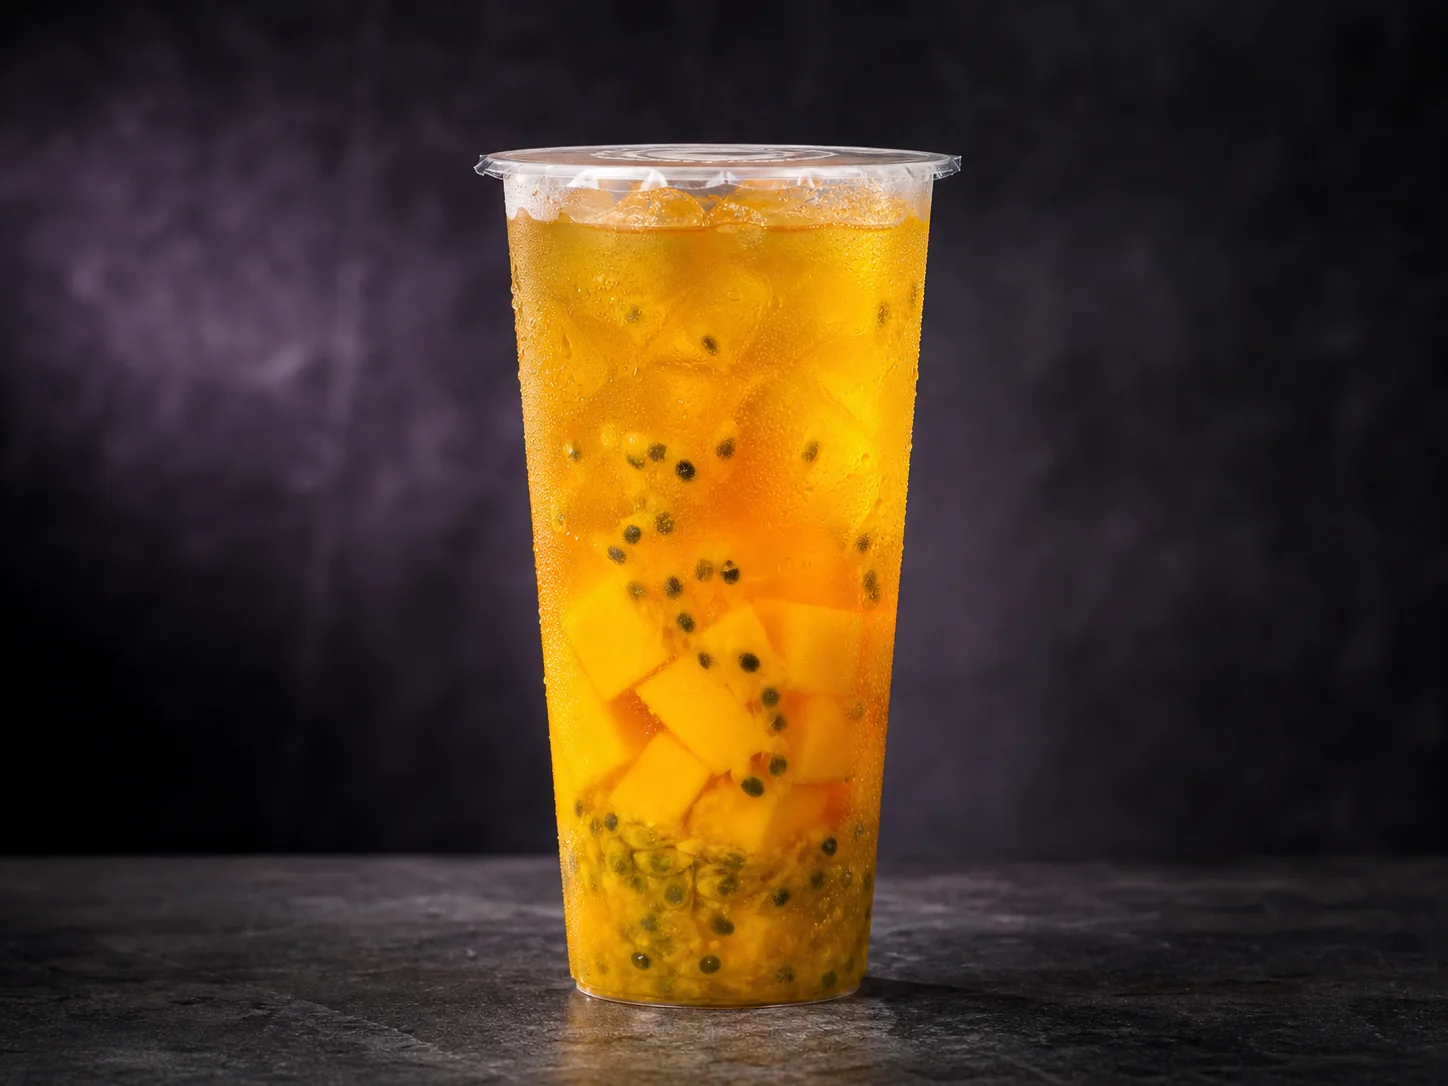
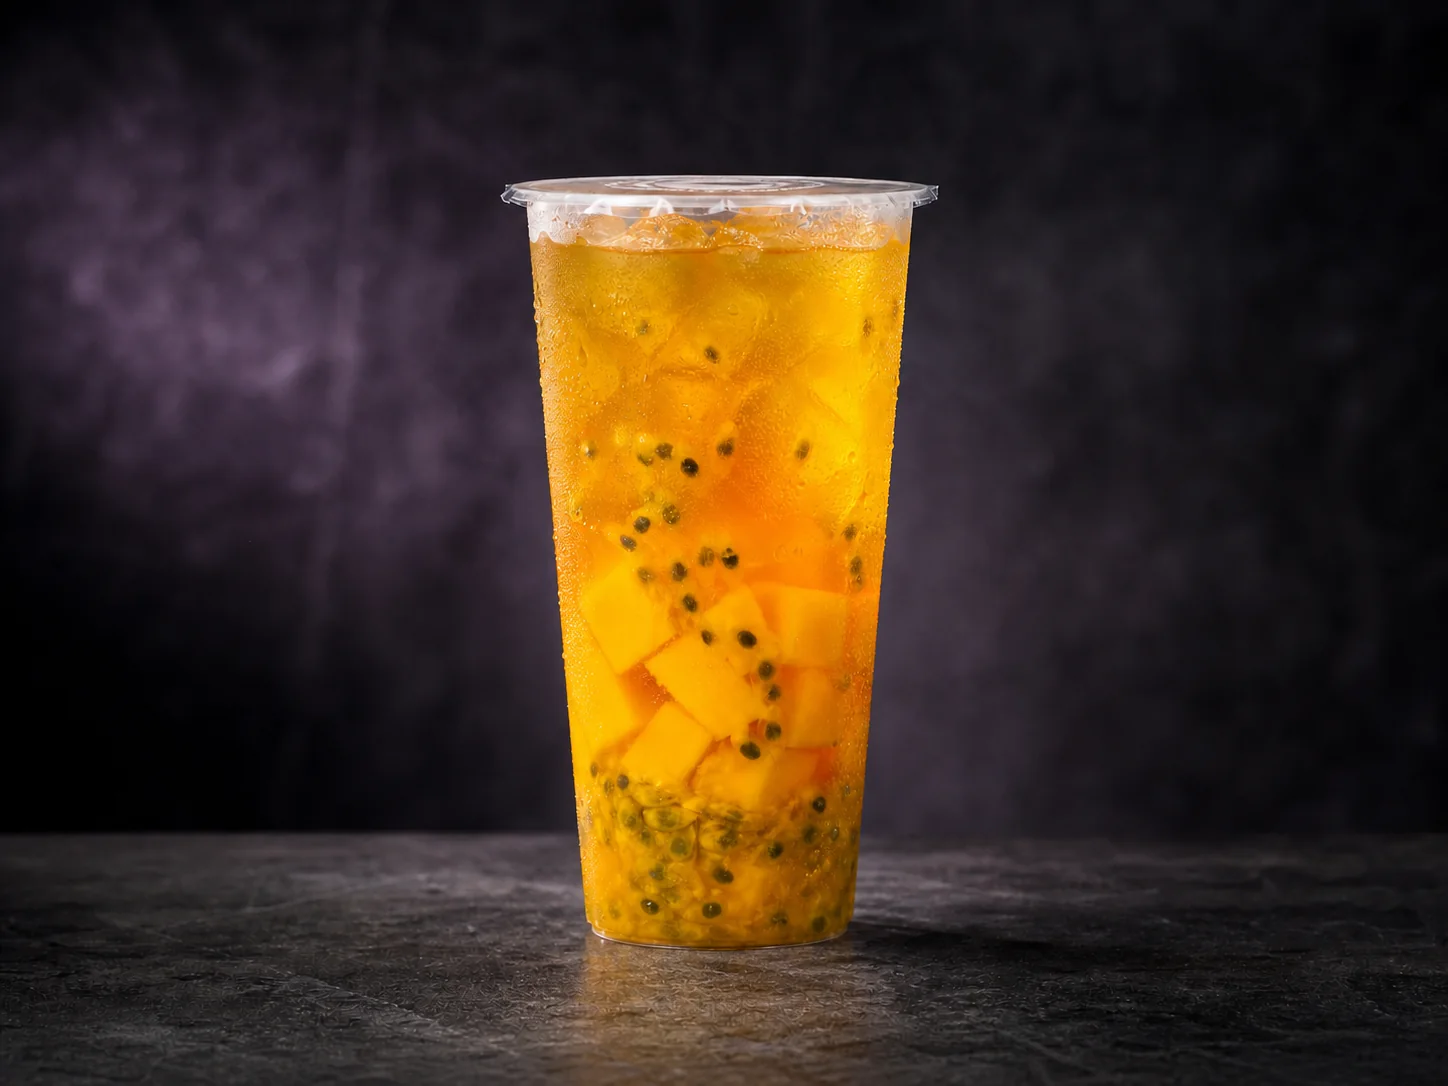
fix: refine product artwork presentation

diff --git a/frontend/src/features/catalog/DrinkPage.tsx b/frontend/src/features/catalog/DrinkPage.tsx
@@ -120,7 +120,7 @@ function DrinkCustomizer({ locationSlug, product }: { locationSlug?: string; pro
       <main className="mx-auto grid w-full max-w-6xl gap-8 px-4 py-8 sm:px-6 lg:grid-cols-[minmax(18rem,0.8fr)_minmax(32rem,1.2fr)] lg:items-start">
         <section className="grid gap-4 lg:sticky lg:top-24" aria-labelledby="drink-name">
           <Button asChild className="w-fit" variant="ghost"><Link to={locationSlug === undefined ? "/shop" : `/shop/${locationSlug}`}>← Back to menu</Link></Button>
-          <DrinkArtwork className="max-h-[28rem] w-full rounded-xl border object-cover object-[center_47%]" drink={product} priority />
+          <DrinkArtwork className="max-h-[28rem] w-full rounded-xl border object-cover object-center" drink={product} priority />
           <Badge variant="secondary">{product.category}</Badge>
           <h1 className="text-3xl" id="drink-name">{product.name}</h1>
           <p className="leading-6 text-muted-foreground">{product.description}</p>
@@ -139,7 +139,7 @@ function DrinkCustomizer({ locationSlug, product }: { locationSlug?: string; pro
                   ?? variant.price.amountMinor;
                 const delta = option.price.amountMinor - defaultPrice;
                 return (
-                  <Label className={cn("flex min-h-14 cursor-pointer items-center gap-3 rounded-lg border border-input bg-input/30 px-3 transition-colors hover:border-primary/70 hover:bg-interactive-hover has-data-[state=checked]:border-interactive-selected-border has-data-[state=checked]:bg-interactive-selected has-data-[state=checked]:text-interactive-selected-foreground has-data-[state=checked]:ring-1 has-data-[state=checked]:ring-primary/60", !option.available && "cursor-not-allowed opacity-50")} htmlFor={`variant-${option.id}`} key={option.id}>
+                  <Label className={cn("flex min-h-14 cursor-pointer items-center gap-3 rounded-lg border border-input bg-input/30 px-3 transition-colors has-data-[state=checked]:border-interactive-selected-border has-data-[state=checked]:bg-interactive-selected has-data-[state=checked]:text-interactive-selected-foreground has-data-[state=checked]:ring-1 has-data-[state=checked]:ring-primary/60", option.available ? "hover:border-primary/70 hover:bg-interactive-hover" : "cursor-not-allowed opacity-50")} htmlFor={`variant-${option.id}`} key={option.id}>
                     <RadioGroupItem
                       aria-label={`${option.name} ${priceDeltaLabel(delta, option.price.currency)}`}
                       disabled={!option.available}
@@ -193,7 +193,7 @@ function OptionGroup({
           const selected = selectedIds.includes(choice.id);
           const limitReached = multiple && !selected && selectedIds.length >= group.maximumSelections;
           return (
-            <Label className={cn("grid min-h-14 cursor-pointer grid-cols-[auto_1fr_auto] items-center gap-3 rounded-lg border border-input bg-input/30 px-3 transition-colors hover:border-primary/70 hover:bg-interactive-hover has-data-[state=checked]:border-interactive-selected-border has-data-[state=checked]:bg-interactive-selected has-data-[state=checked]:text-interactive-selected-foreground has-data-[state=checked]:ring-1 has-data-[state=checked]:ring-primary/60", limitReached && "cursor-not-allowed opacity-50")} htmlFor={`choice-${group.id}-${choice.id}`} key={choice.id}>
+            <Label className={cn("grid min-h-14 cursor-pointer grid-cols-[auto_1fr_auto] items-center gap-3 rounded-lg border border-input bg-input/30 px-3 transition-colors has-data-[state=checked]:border-interactive-selected-border has-data-[state=checked]:bg-interactive-selected has-data-[state=checked]:text-interactive-selected-foreground has-data-[state=checked]:ring-1 has-data-[state=checked]:ring-primary/60", limitReached ? "cursor-not-allowed opacity-50" : "hover:border-primary/70 hover:bg-interactive-hover")} htmlFor={`choice-${group.id}-${choice.id}`} key={choice.id}>
               <Checkbox
                 aria-label={`${choice.name} ${priceDeltaLabel(choice.priceDelta.amountMinor, choice.priceDelta.currency)}`}
                 checked={selected}

diff --git a/frontend/src/features/catalog/ShopPage.tsx b/frontend/src/features/catalog/ShopPage.tsx
@@ -77,7 +77,7 @@ export function ShopPage() {
             <article className="min-w-0" key={drink.id}>
               <Card className={`group h-full gap-0 overflow-hidden py-0 transition-shadow duration-150 hover:ring-foreground/20${drink.available ? "" : " bg-muted/35"}`}>
                 <DrinkArtwork
-                  className={cn("aspect-[4/3] w-full object-cover object-[center_47%] xl:aspect-[16/9]", !drink.available && "grayscale")}
+                  className={cn("aspect-[4/3] w-full object-cover object-center xl:aspect-[16/9]", !drink.available && "grayscale")}
                   drink={drink}
                   priority={index < 4}
                 />

diff --git a/frontend/src/features/catalog/ShopPage.test.tsx b/frontend/src/features/catalog/ShopPage.test.tsx
@@ -34,7 +34,7 @@ describe("ShopPage", () => {
       "/shop/orchard-central/drinks/moonlit-milk-tea",
     );
     expect(screen.getByRole("img", { name: "Moonlit Milk Tea in a clear cup" }))
-      .toHaveAttribute("src", "/assets/catalog/moonlit-milk-tea.webp");
+      .toHaveAttribute("src", "/assets/catalog/moonlit-milk-tea.webp?v=2");
     for (const image of screen.getAllByRole("img", { name: /in a clear cup/ })) {
       expect(image).toHaveAttribute("loading", "eager");
       expect(image).toHaveAttribute("fetchpriority", "high");

diff --git a/frontend/e2e/guest-order.spec.ts b/frontend/e2e/guest-order.spec.ts
@@ -136,6 +136,7 @@ test("catalog artwork keeps a crop-safe landscape source ratio", async ({ page }
   await page.goto("/");
   const artwork = page.locator(".drink-art");
   await expect.poll(() => artwork.count()).toBeGreaterThanOrEqual(5);
+  await expect(artwork.first()).toHaveAttribute("src", /\.webp\?v=2$/);
 
   for (let index = 0; index < await artwork.count(); index += 1) {
     await expect.poll(() => artwork.nth(index).evaluate((image) => {

diff --git a/frontend/src/features/catalog/DrinkArtwork.tsx b/frontend/src/features/catalog/DrinkArtwork.tsx
@@ -18,7 +18,7 @@ export function DrinkArtwork({
       fetchPriority={priority ? "high" : "auto"}
       height="1086"
       loading={priority ? "eager" : "lazy"}
-      src={`/assets/catalog/${drink.artworkKey}.webp`}
+      src={`/assets/catalog/${drink.artworkKey}.webp?v=2`}
       width="1448"
     />
   );
